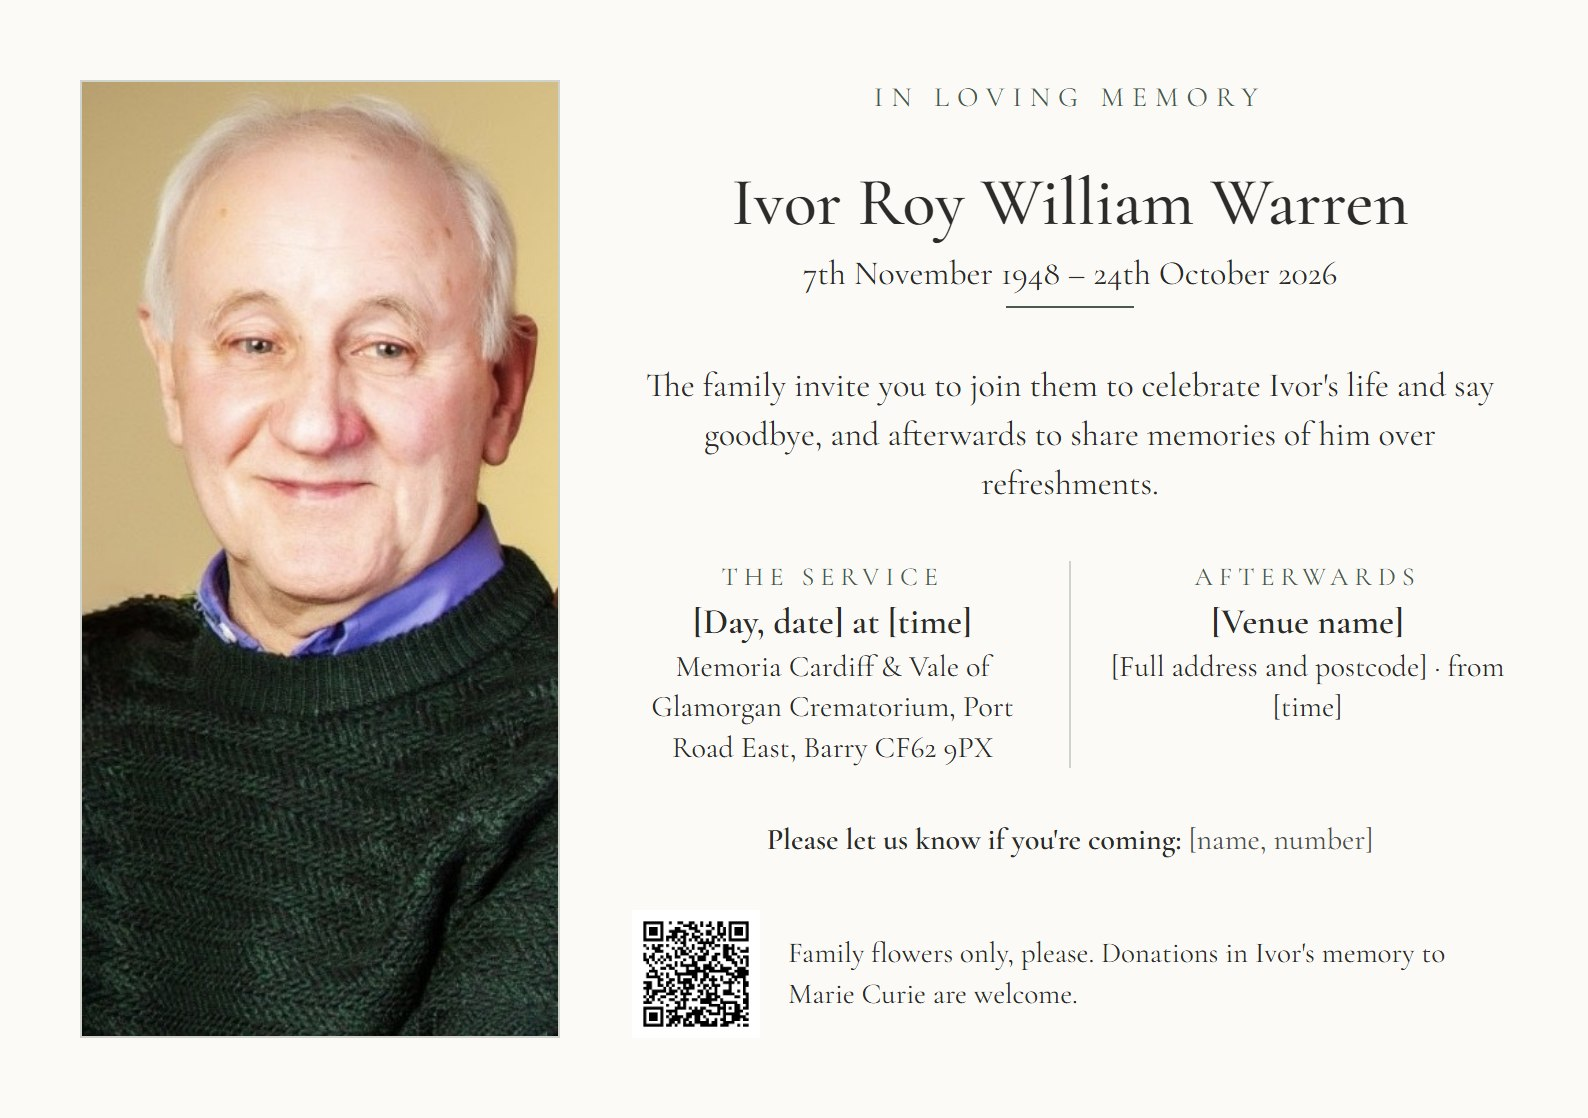
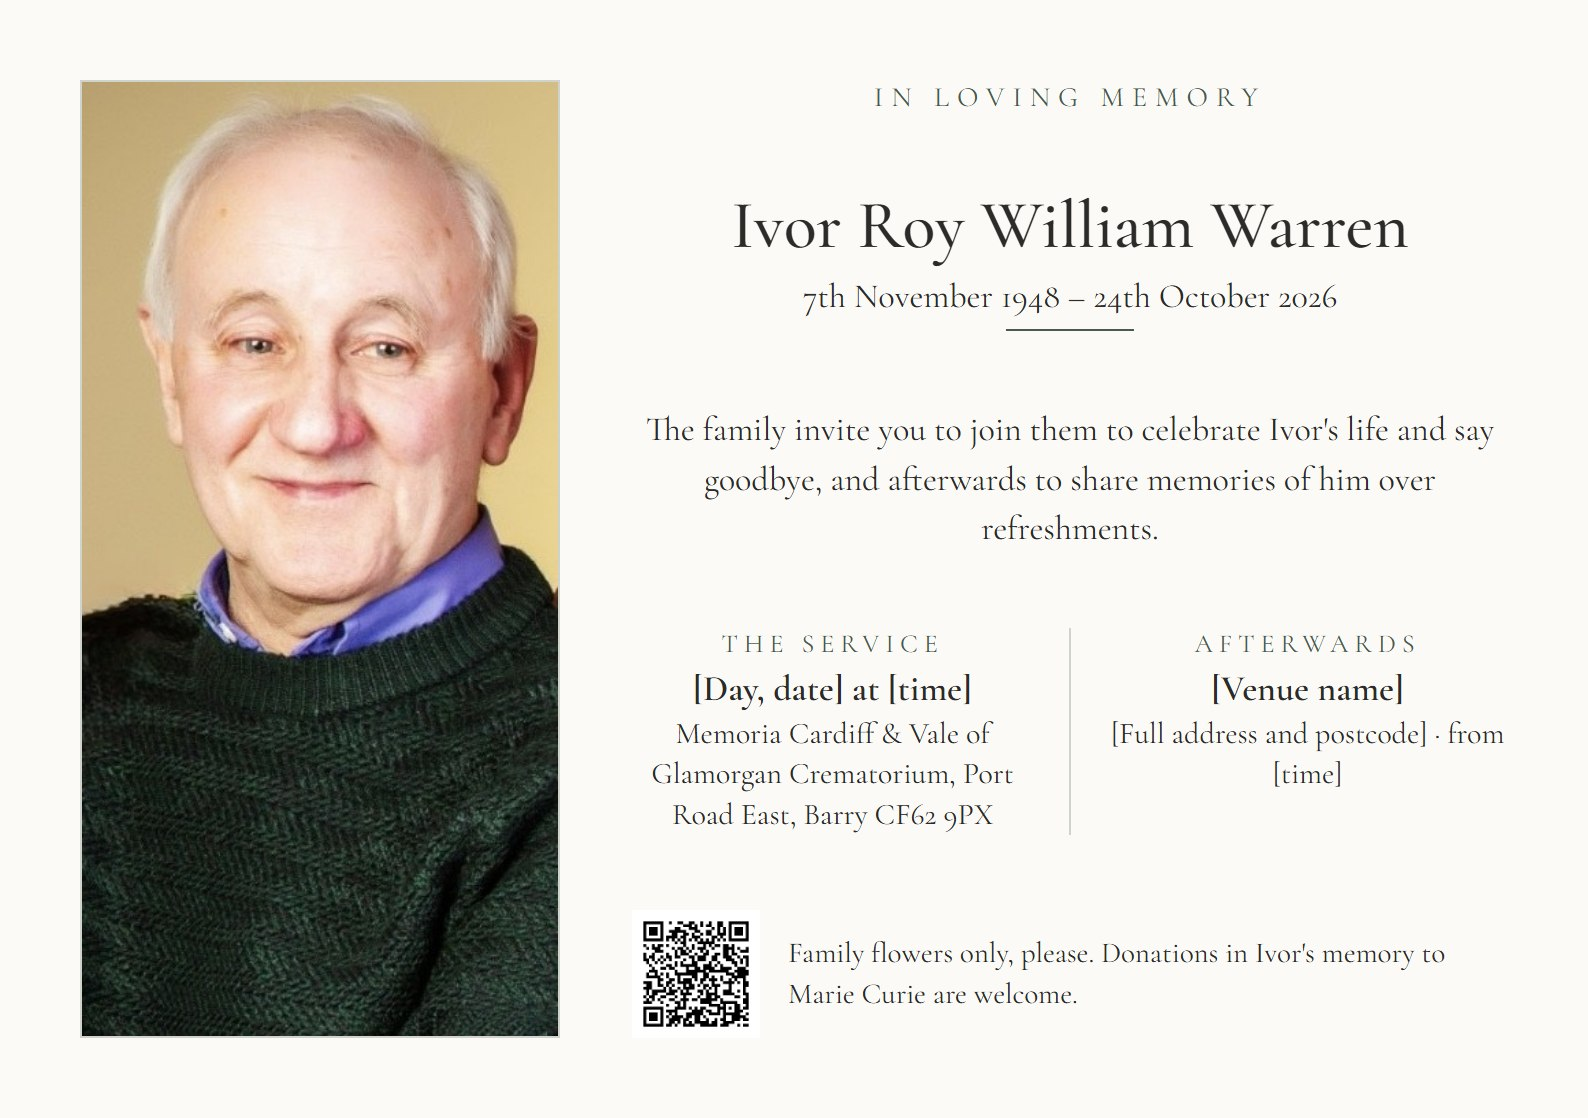
Invitation: remove RSVP line

diff --git a/index.html b/index.html
@@ -334,7 +334,7 @@ const DRAFTS=[
  ["Order of service","p7","Page 10 · Thank you","drafts/Ivor-7-thank-you.jpg?v=3"],
  ["Order of service","aft","Page 11 · Join us afterwards","drafts/Ivor-11-afterwards.jpg"],
  ["Order of service","p8","Page 12 · Back cover","drafts/Ivor-8-back-cover.jpg?v=2"],
- ["Invitations and cards","inv","Invitation (funeral and wake)","drafts/Ivor-funeral-invitation.jpg?v=11"],
+ ["Invitations and cards","inv","Invitation (funeral and wake)","drafts/Ivor-funeral-invitation.jpg?v=13"],
  ["Invitations and cards","board","Wake welcome board","drafts/Ivor-wake-welcome-board.jpg?v=9"],
  ["Invitations and cards","tyf","Thank-you card · front","drafts/Ivor-thank-you-card-front.jpg?v=12"],
  ["Invitations and cards","tyi","Thank-you card · inside","drafts/Ivor-thank-you-card-inside.jpg?v=2"],
